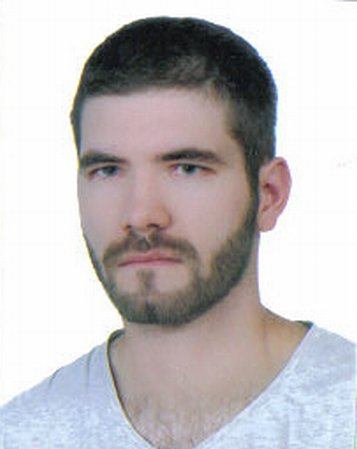
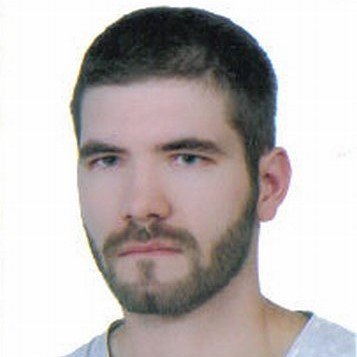
heads and image centered

diff --git a/index.html b/index.html
@@ -1,56 +1,60 @@
 <!DOCTYPE html>
 <html lang="pl">
-
-<head>
-    <meta charset="UTF-8">
-    <meta name="viewport" content="width=device-width, initial-scale=1.0">
+  <head>
+    <meta charset="UTF-8" />
+    <meta name="viewport" content="width=device-width, initial-scale=1.0" />
     <title>Document</title>
-    <link href="style.css" rel="stylesheet" type="text/css">
-</head>
+    <link href="style.css" rel="stylesheet" type="text/css" />
+  </head>
 
-<body class="main-body">
+  <body class="main-body">
     <nav class="navigation">
-        <a class="navigation-link" href="index.html">Strona główna</a>
-        <a class="navigation-link" href="page1.html">Strona 1</a>
-        <a class="navigation-link" href="page2.html">Strona 2</a>
+      <a class="navigation-link" href="index.html">Strona główna</a>
+      <a class="navigation-link" href="page1.html">Strona 1</a>
+      <a class="navigation-link" href="page2.html">Strona 2</a>
     </nav>
     <main>
-        <header>
-            <h1 class="main-header">Strona główna</h1>
-        </header>
+      <header>
+        <h1 class="main-header">Strona główna</h1>
+      </header>
 
-        <section>
-
-            <img src="photo.jpg" alt="Moja morda">
-            <h2 class="main-header">Frontend</h2>
-            <article>
-                <h3 class="header-style" >Co to jest frontend?</h3>
-                <p>Frontend odpowiada za wygląd strony/aplikacji oraz interakcję z użytkownikiem. Jest generowany
-                    głównie przy uzyciu trzech technologii: HTML, CSS, JavaScript.</p>
-            </article>
-        </section>
-        <section>
-            <h2 class="main-header">HTML</h2>
-            <article>
-                <h3 class="header-style"> Co to jest HTML?</h3>
-                <p> HTML - HyperText Markup Language, czyli hipertekstowy język znaczników. Opdowiada za terść strony, a
-                    właściwie
-                    za jego odpowiednie opakowanie. Składa się ze znaczników.</p>
-            </article>
-        </section>
-        <section>
-            <h2 class="main-header">CSS</h2>
-            <article>
-                <h3 class="header-style"> Co to jest CSS?</h3>
-                <p> CSS - Cascading Style Sheets, czyli kaskadowe arkusze stylów. Odpowiada zaprezentację (wygląd
-                    strony).</p>
-            </article>
-        </section>
+      <section class="main-section">
+        <img class="rounded-image" src="photo.jpg" alt="Moja morda" />
+        <h2 class="main-header">Frontend</h2>
+        <article>
+          <h3 class="header-style">Co to jest frontend?</h3>
+          <p>
+            Frontend odpowiada za wygląd strony/aplikacji oraz interakcję z
+            użytkownikiem. Jest generowany głównie przy uzyciu trzech
+            technologii: HTML, CSS, JavaScript.
+          </p>
+        </article>
+      </section>
+      <section class="main-section">
+        <h2 class="main-header">HTML</h2>
+        <article>
+          <h3 class="header-style">Co to jest HTML?</h3>
+          <p>
+            HTML - HyperText Markup Language, czyli hipertekstowy język
+            znaczników. Opdowiada za terść strony, a właściwie za jego
+            odpowiednie opakowanie. Składa się ze znaczników.
+          </p>
+        </article>
+      </section>
+      <section class="main-section">
+        <h2 class="main-header">CSS</h2>
+        <article>
+          <h3 class="header-style">Co to jest CSS?</h3>
+          <p>
+            CSS - Cascading Style Sheets, czyli kaskadowe arkusze stylów.
+            Odpowiada zaprezentację (wygląd strony).
+          </p>
+        </article>
+      </section>
     </main>
     <footer>
-        <p>A tutaj jest stopka</p>
+      <p>A tutaj jest stopka</p>
     </footer>
-<script src="main.js"></script>
-</body>
-
+    <script src="main.js"></script>
+  </body>
 </html>

diff --git a/page1.html b/page1.html
@@ -1,56 +1,59 @@
 <!DOCTYPE html>
 <html lang="pl">
-
-<head>
-    <meta charset="UTF-8">
-    <meta name="viewport" content="width=device-width, initial-scale=1.0">
+  <head>
+    <meta charset="UTF-8" />
+    <meta name="viewport" content="width=device-width, initial-scale=1.0" />
     <title>Document</title>
-    <link href="style.css" rel="stylesheet" type="text/css">
-</head>
+    <link href="style.css" rel="stylesheet" type="text/css" />
+  </head>
 
-<body class="main-body">
-    <nav  class="navigation">
-        <a class="navigation-link" href="index.html">Strona główna</a>
-        <a class="navigation-link" href="page1.html">Strona 1</a>
-        <a class="navigation-link" href="page2.html">Strona 2</a>
+  <body class="main-body">
+    <nav class="navigation">
+      <a class="navigation-link" href="index.html">Strona główna</a>
+      <a class="navigation-link" href="page1.html">Strona 1</a>
+      <a class="navigation-link" href="page2.html">Strona 2</a>
     </nav>
     <main>
-        <header>
-            <h1 class="main-header">Strona 1</h1>
-        </header>
+      <header>
+        <h1 class="main-header">Strona 1</h1>
+      </header>
 
-        <section>
-
-            <img src="photo.jpg" alt="Moja morda">
-            <h2 class="main-header">Frontend</h2>
-            <article>
-                <h3 class="header-style">Co to jest frontend?</h3>
-                <p>Frontend odpowiada za wygląd strony/aplikacji oraz interakcję z użytkownikiem. Jest generowany
-                    głównie przy uzyciu trzech technologii: HTML, CSS, JavaScript.</p>
-            </article>
-        </section>
-        <section>
-            <h2 class="main-header">HTML</h2>
-            <article>
-                <h3 class="header-style"> Co to jest HTML?</h3>
-                <p> HTML - HyperText Markup Language, czyli hipertekstowy język znaczników. Opdowiada za terść strony, a
-                    właściwie
-                    za jego odpowiednie opakowanie. Składa się ze znaczników.</p>
-            </article>
-        </section>
-        <section>
-            <h2 class="main-header">CSS</h2>
-            <article>
-                <h3 class="header-style"> Co to jest CSS?</h3>
-                <p> CSS - Cascading Style Sheets, czyli kaskadowe arkusze stylów. Odpowiada zaprezentację (wygląd
-                    strony).</p>
-            </article>
-        </section>
+      <section class="main-section">
+        <img class="rounded-image" src="photo.jpg" alt="Moja morda" />
+        <h2 class="main-header">Frontend</h2>
+        <article>
+          <h3 class="header-style">Co to jest frontend?</h3>
+          <p>
+            Frontend odpowiada za wygląd strony/aplikacji oraz interakcję z
+            użytkownikiem. Jest generowany głównie przy uzyciu trzech
+            technologii: HTML, CSS, JavaScript.
+          </p>
+        </article>
+      </section>
+      <section class="main-section">
+        <h2 class="main-header">HTML</h2>
+        <article>
+          <h3 class="header-style">Co to jest HTML?</h3>
+          <p>
+            HTML - HyperText Markup Language, czyli hipertekstowy język
+            znaczników. Opdowiada za terść strony, a właściwie za jego
+            odpowiednie opakowanie. Składa się ze znaczników.
+          </p>
+        </article>
+      </section>
+      <section class="main-section">
+        <h2 class="main-header">CSS</h2>
+        <article>
+          <h3 class="header-style">Co to jest CSS?</h3>
+          <p>
+            CSS - Cascading Style Sheets, czyli kaskadowe arkusze stylów.
+            Odpowiada zaprezentację (wygląd strony).
+          </p>
+        </article>
+      </section>
     </main>
     <footer>
-        <p>A tutaj jest stopka</p>
+      <p>A tutaj jest stopka</p>
     </footer>
-
-</body>
-
+  </body>
 </html>

diff --git a/page2.html b/page2.html
@@ -1,56 +1,59 @@
 <!DOCTYPE html>
 <html lang="pl">
-
-<head>
-    <meta charset="UTF-8">
-    <meta name="viewport" content="width=device-width, initial-scale=1.0">
+  <head>
+    <meta charset="UTF-8" />
+    <meta name="viewport" content="width=device-width, initial-scale=1.0" />
     <title>Document</title>
-    <link href="style.css" rel="stylesheet" type="text/css">
-</head>
+    <link href="style.css" rel="stylesheet" type="text/css" />
+  </head>
 
-<body class="main-body">
+  <body class="main-body">
     <nav class="navigation">
-        <a class="navigation-link" href="index.html">Strona główna</a>
-        <a class="navigation-link" href="page1.html">Strona 1</a>
-        <a class="navigation-link" href="page2.html">Strona 2</a>
+      <a class="navigation-link" href="index.html">Strona główna</a>
+      <a class="navigation-link" href="page1.html">Strona 1</a>
+      <a class="navigation-link" href="page2.html">Strona 2</a>
     </nav>
     <main>
-        <header>
-            <h1 class="main-header">Strona 2</h1>
-        </header>
+      <header>
+        <h1 class="main-header">Strona 2</h1>
+      </header>
 
-        <section>
-
-            <img src="photo.jpg" alt="Moja morda">
-            <h2 class="main-header">Frontend</h2>
-            <article>
-                <h3 class="header-style">Co to jest frontend?</h3>
-                <p>Frontend odpowiada za wygląd strony/aplikacji oraz interakcję z użytkownikiem. Jest generowany
-                    głównie przy uzyciu trzech technologii: HTML, CSS, JavaScript.</p>
-            </article>
-        </section>
-        <section>
-            <h2 class="main-header">HTML</h2>
-            <article>
-                <h3 class="header-style"> Co to jest HTML?</h3>
-                <p> HTML - HyperText Markup Language, czyli hipertekstowy język znaczników. Opdowiada za terść strony, a
-                    właściwie
-                    za jego odpowiednie opakowanie. Składa się ze znaczników.</p>
-            </article>
-        </section>
-        <section>
-            <h2 class="main-header">CSS</h2>
-            <article>
-                <h3 class="header-style"> Co to jest CSS?</h3>
-                <p> CSS - Cascading Style Sheets, czyli kaskadowe arkusze stylów. Odpowiada zaprezentację (wygląd
-                    strony).</p>
-            </article>
-        </section>
+      <section class="main-section">
+        <img class="rounded-image" src="photo.jpg" alt="Moja morda" />
+        <h2 class="main-header">Frontend</h2>
+        <article>
+          <h3 class="header-style">Co to jest frontend?</h3>
+          <p>
+            Frontend odpowiada za wygląd strony/aplikacji oraz interakcję z
+            użytkownikiem. Jest generowany głównie przy uzyciu trzech
+            technologii: HTML, CSS, JavaScript.
+          </p>
+        </article>
+      </section>
+      <section class="main-section">
+        <h2 class="main-header">HTML</h2>
+        <article>
+          <h3 class="header-style">Co to jest HTML?</h3>
+          <p>
+            HTML - HyperText Markup Language, czyli hipertekstowy język
+            znaczników. Opdowiada za terść strony, a właściwie za jego
+            odpowiednie opakowanie. Składa się ze znaczników.
+          </p>
+        </article>
+      </section>
+      <section class="main-section">
+        <h2 class="main-header">CSS</h2>
+        <article>
+          <h3 class="header-style">Co to jest CSS?</h3>
+          <p>
+            CSS - Cascading Style Sheets, czyli kaskadowe arkusze stylów.
+            Odpowiada zaprezentację (wygląd strony).
+          </p>
+        </article>
+      </section>
     </main>
     <footer>
-        <p>A tutaj jest stopka</p>
+      <p>A tutaj jest stopka</p>
     </footer>
-
-</body>
-
+  </body>
 </html>

diff --git a/style.css b/style.css
@@ -1,5 +1,6 @@
 .main-body{
     background-color: #e7e5df;
+    min-width: 700px;
 }
 .navigation{
     background-color: #393e41;
@@ -7,9 +8,7 @@
     height: 24px;
     min-width: 700px;
     padding-top: 6px;
-    text-align: center; 
-    
-   
+    text-align: center;   
 }
 .navigation-link{
     display: inline-block;
@@ -19,16 +18,25 @@
    margin: 0 auto; 
     
 }
-section{
-    background-color: #d3d0cb;
+.main-header{
+    color: #e7bb41;
+    text-align: center;
+    background-color: #393e41;
+    border-radius: 8px;
+}
+.rounded-image{
+    display: block;
+    border-radius: 50%;
+    margin: 0 auto;
+}
+.main-section{
+    background-color: #d3d0cb;  
 }
 p{
     color:#393e41;
 }
 
-.main-header{
-    color: #e7bb41;
-}
+
 .header-style{
     color: #44bba4;
 }
